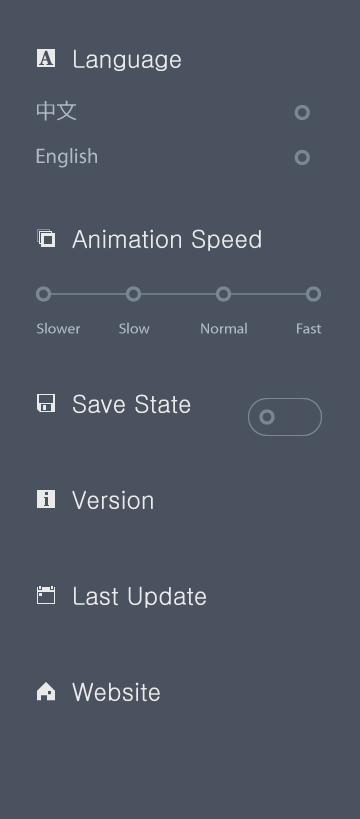
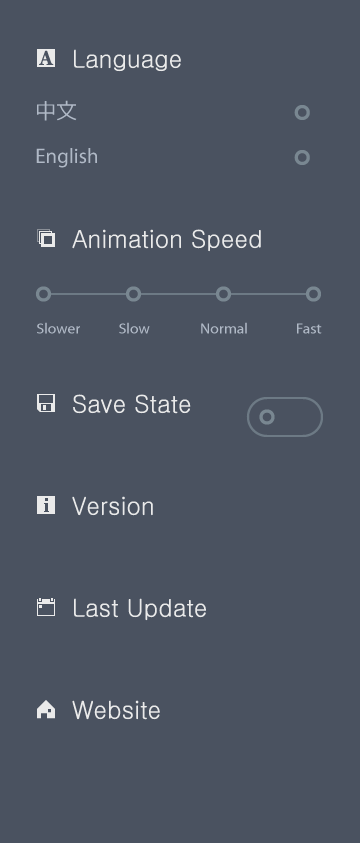
146

diff --git a/stylesheets/stylesheet.css b/stylesheets/stylesheet.css
@@ -93,9 +93,9 @@ body, html{
 
 #menuBtn{
     height: 48px;
-    width: 50px;
+    width: 48px;
     background: url(../images/menuBtn.png);
-    background-size: 50px 48px;
+    background-size: 100% 100%;
     /*background-color: #65B89C;*/
     float: left;
     position: absolute;
@@ -373,6 +373,14 @@ body, html{
 
 /****search****/
 
+#searchBg{
+    width: 240px;
+    height: 384px;
+    background-image: url(../images/search.png);
+    background-size: 100% 100%;
+}
+
+
 #filterPanel{
     /*background: red;*/
     width: 100%;
@@ -486,7 +494,7 @@ body, html{
 }
 
 #settingsBg{
-    height: 546px;
+    height: 562px;
     width: 240px;
     background-image: url(../images/settings.png);
     background-size: 100% 100%;
@@ -540,7 +548,7 @@ body, html{
     float: left;
     width: 240px;
     height: 0;
-    margin-top: 64px;
+    margin-top: 68px;
     font-size: 11px;
     color: #B0B9C6;
     text-indent: 25px;

diff --git a/index.html b/index.html
@@ -78,7 +78,8 @@
                 </ul>
             </div>
             <div id="searchPage">
-                <div id="filterPanel" class="scrollable">
+                <div id="searchBg"></div>
+                <!-- <div id="filterPanel" class="scrollable">
                     <div id="titleColor"></div>
                     <div id="panelColor">
                         <ul>
@@ -126,7 +127,7 @@
                             <li>30</li>
                         </ul>
                     </div>
-                </div>
+                </div> -->
                 <div id="searchBtn">
                     Find B2
                 </div>
